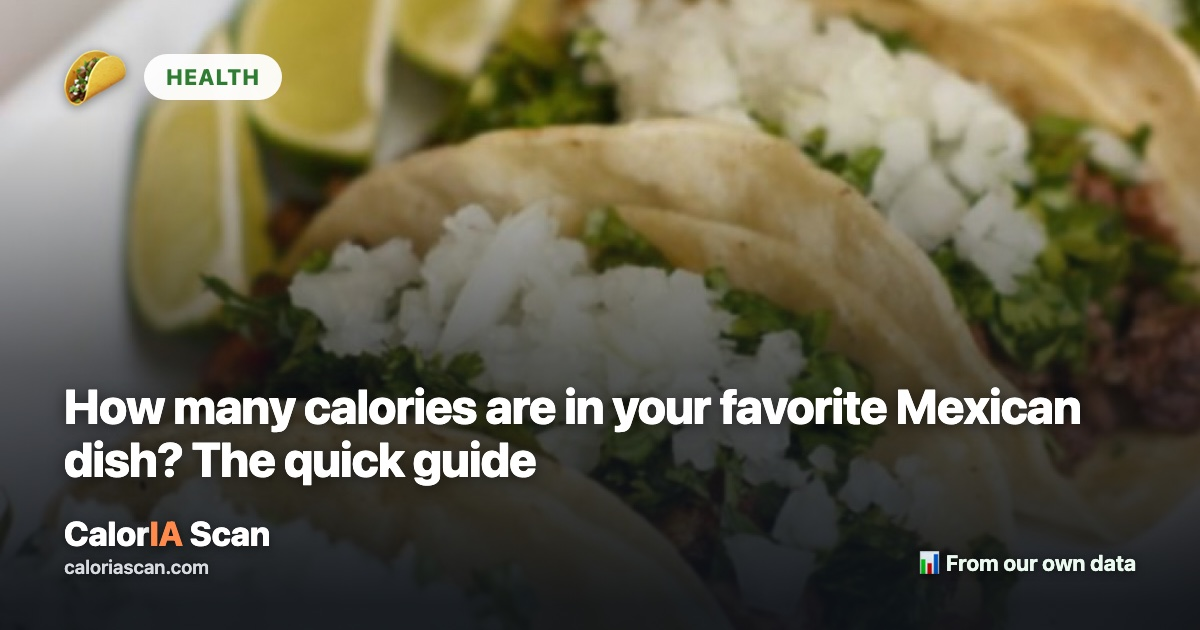
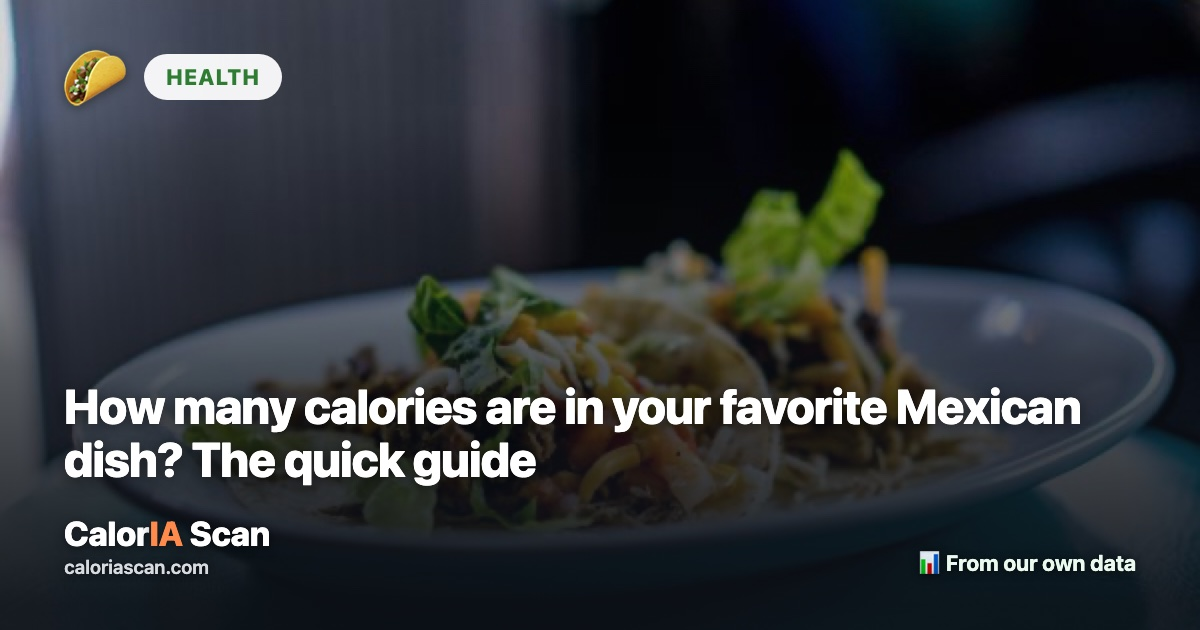
Blog: swap the calorias-guide photo for a landscape crop
The original photo was portrait-oriented (1064x1600) while every other
photo on the site is landscape (~1600x1066-1200). Forcing a portrait
source through the site's landscape-shaped containers (article hero,
featured card, thumbnails — all object-fit:cover) produced an extreme,
overly-zoomed crop that read as "too big" next to the rest of the site.

Swapped the query in fetch-stock.js to surface a landscape CC0 shot
(1600x898, stocksnap) and regenerated the two OG images to match.

diff --git a/blog/fetch-stock.js b/blog/fetch-stock.js
@@ -21,7 +21,7 @@ const QUERIES = {
   'sal-presion-arterial-oms': ['salt shaker table', 'coarse salt bowl', 'sea salt food'],
   'pan-integral-mito': ['whole grain bread', 'bread loaf sliced', 'bread'],
   'jugo-natural-vs-fruta': ['orange juice glass', 'fresh orange juice', 'orange juice'],
-  'calorias-platillos-mexicanos-favoritos': ['tacos al pastor plate', 'mexican tacos street food', 'mexican food tacos'],
+  'calorias-platillos-mexicanos-favoritos': ['tacos plate table', 'mexican food tacos', 'mexican tacos street food'],
   'mitos-comida-virales': ['fresh vegetables fruits', 'healthy food table', 'fruits vegetables'],
 };
 